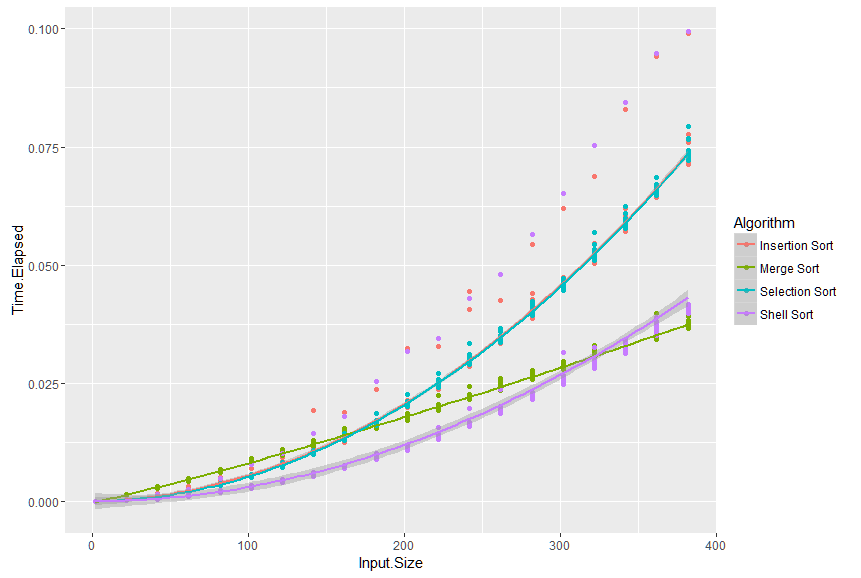
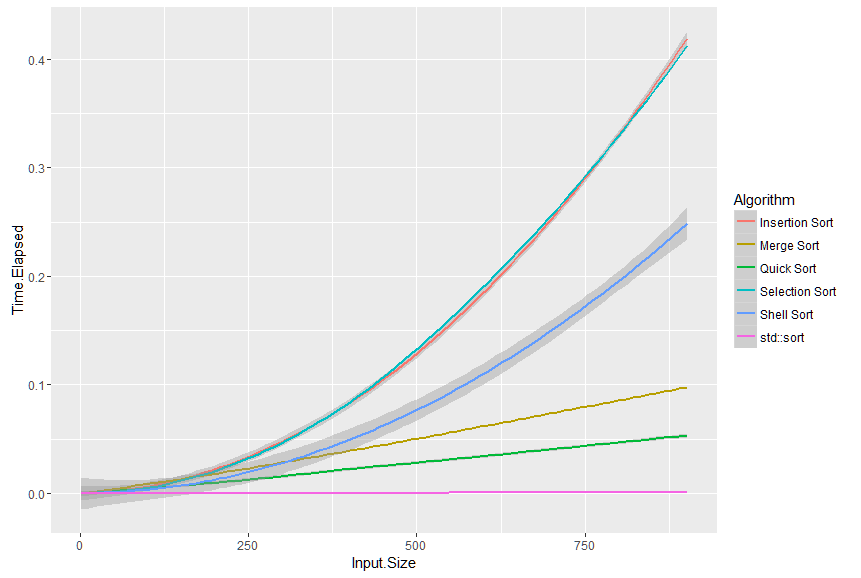
Add naive (first element partition) quick sort

diff --git a/Sorts/Performance.h b/Sorts/Performance.h
@@ -5,6 +5,7 @@
 #include "Insertion.h"
 #include "Shell.h"
 #include "Merge.h"
+#include "Quick.h"
 #include <vector>
 #include <algorithm>
 #include <iostream>
@@ -15,8 +16,11 @@ using std::cout;
 using std::endl;
 using std::vector;
 
-constexpr size_t MAX_INPUT_SIZE   = 100'000;
-constexpr size_t INPUT_STEP       = 10000;
+namespace SortPerformance
+{
+
+constexpr size_t MAX_INPUT_SIZE   = 1000;
+constexpr size_t INPUT_STEP       = 100;
 constexpr size_t ITERATION_COUNT  = 20;
 
 void time_sorts(AlgorithmList sort_functions = AlgorithmList({
@@ -24,6 +28,7 @@ void time_sorts(AlgorithmList sort_functions = AlgorithmList({
   { "Insertion Sort", &insertion_sort<Iterator> },
   { "Shell Sort", &shell_sort<Iterator> },
   { "Merge Sort", &merge_sort<Iterator> },
+  { "Quick Sort", &quick_sort<Iterator> },
   { "std::sort", &std::sort<Iterator&> }
 }), size_t max_input_size = MAX_INPUT_SIZE
   , size_t input_step = INPUT_STEP
@@ -37,7 +42,7 @@ void time_sorts(AlgorithmList sort_functions = AlgorithmList({
     for (size_t input_size = 2; input_size < max_input_size; input_size += input_step)
     {
       vector<double> iteration;
-      SortData data = gen_fixture(input_size);
+      SortData data = SortTests::gen_fixture(input_size);
 
       for (size_t i = 0; i < iteration_count; i++)
       {
@@ -77,3 +82,5 @@ void time_sorts(AlgorithmList sort_functions = AlgorithmList({
     cout << "Cannot open sort file" << endl;
   }
 }
+
+} // SortPerformance

diff --git a/Sorts/Test.h b/Sorts/Test.h
@@ -10,8 +10,11 @@
 using std::cout;
 using std::endl;
 
+namespace SortTests
+{
+
 template<class iter>
-void debug_sort(iter sorted_data, iter original_data)
+bool test_sort(iter sorted_data, iter original_data)
 {
   for (auto n : original_data)
   {
@@ -25,13 +28,18 @@ void debug_sort(iter sorted_data, iter original_data)
     cout << n << " ";
   }
 
+  bool is_sorted = std::is_sorted(sorted_data.begin(), sorted_data.end());
+  bool is_permutation = std::is_permutation(sorted_data.begin(), sorted_data.end(), original_data.begin());
+
   cout << endl;
   cout << "is permutation: ";
-  cout << std::boolalpha << std::is_permutation(sorted_data.begin(), sorted_data.end(), original_data.begin());
+  cout << std::boolalpha << is_permutation;
   cout << endl;
   cout << "is sorted: ";
-  cout << std::boolalpha << std::is_sorted(sorted_data.begin(), sorted_data.end());
+  cout << std::boolalpha << is_sorted;
   cout << endl;
+
+  return is_sorted && is_permutation;
 }
 
 SortData gen_fixture(size_t input_size)
@@ -61,3 +69,18 @@ SortData gen_nearly_sorted_fixture(size_t input_size)
   auto data = gen_sorted_fixture(input_size);
   return data;
 }
+
+void test_with_input(size_t size, void(*fn)(Iterator&, Iterator&))
+{
+  constexpr int ENTER = 10;
+
+  do {
+    auto fixture = gen_fixture(size);
+    auto orig(fixture);
+
+    fn(fixture.begin(), fixture.end());
+    test_sort(fixture, orig);
+  } while (std::cin.get() == ENTER);
+}
+
+} // SortTests

diff --git a/Sorts/Quick.h b/Sorts/Quick.h
@@ -1,0 +1,53 @@
+#pragma once
+#pragma once
+#include "stdafx.h"
+#include <utility>
+
+using std::swap;
+
+template <class iter>
+iter partition(iter &begin, iter &end)
+{  
+  auto p = begin;
+  auto l = p + 1;
+  auto r = end - 1;
+
+  for (;;)
+  {    
+    while (l < r && *p >= *l)
+    {
+      l++;
+    }
+    
+    while (r >= l && *p < *r)
+    {
+      r--;
+    }
+
+    if (l >= r) break;
+    
+    swap(*r, *l);    
+  }
+  
+  swap(*p, *r);
+  return r;
+}
+
+/* *
+* n^2 worst (not shuffled), n log n best/avg
+*
+* partion the array into two halves
+* quick sort each half recursively
+* */
+template <class iter>
+void quick_sort(iter &begin, iter &end)
+{
+  if (begin == end) return;
+  
+  auto p = partition(begin, end);  
+  
+  quick_sort(begin, p);  
+  quick_sort(p + 1, end);
+}
+
+

diff --git a/Sorts/Sorts.cpp b/Sorts/Sorts.cpp
@@ -6,11 +6,15 @@
 #include "Insertion.h"
 #include "Shell.h"
 #include "Merge.h"
+#include "Quick.h"
 #include "Performance.h"
+
+using std::cin;
+using std::cout;
 
 int main()
 {
-  time_sorts();
+  SortPerformance::time_sorts();
 
   return 0;
 }
